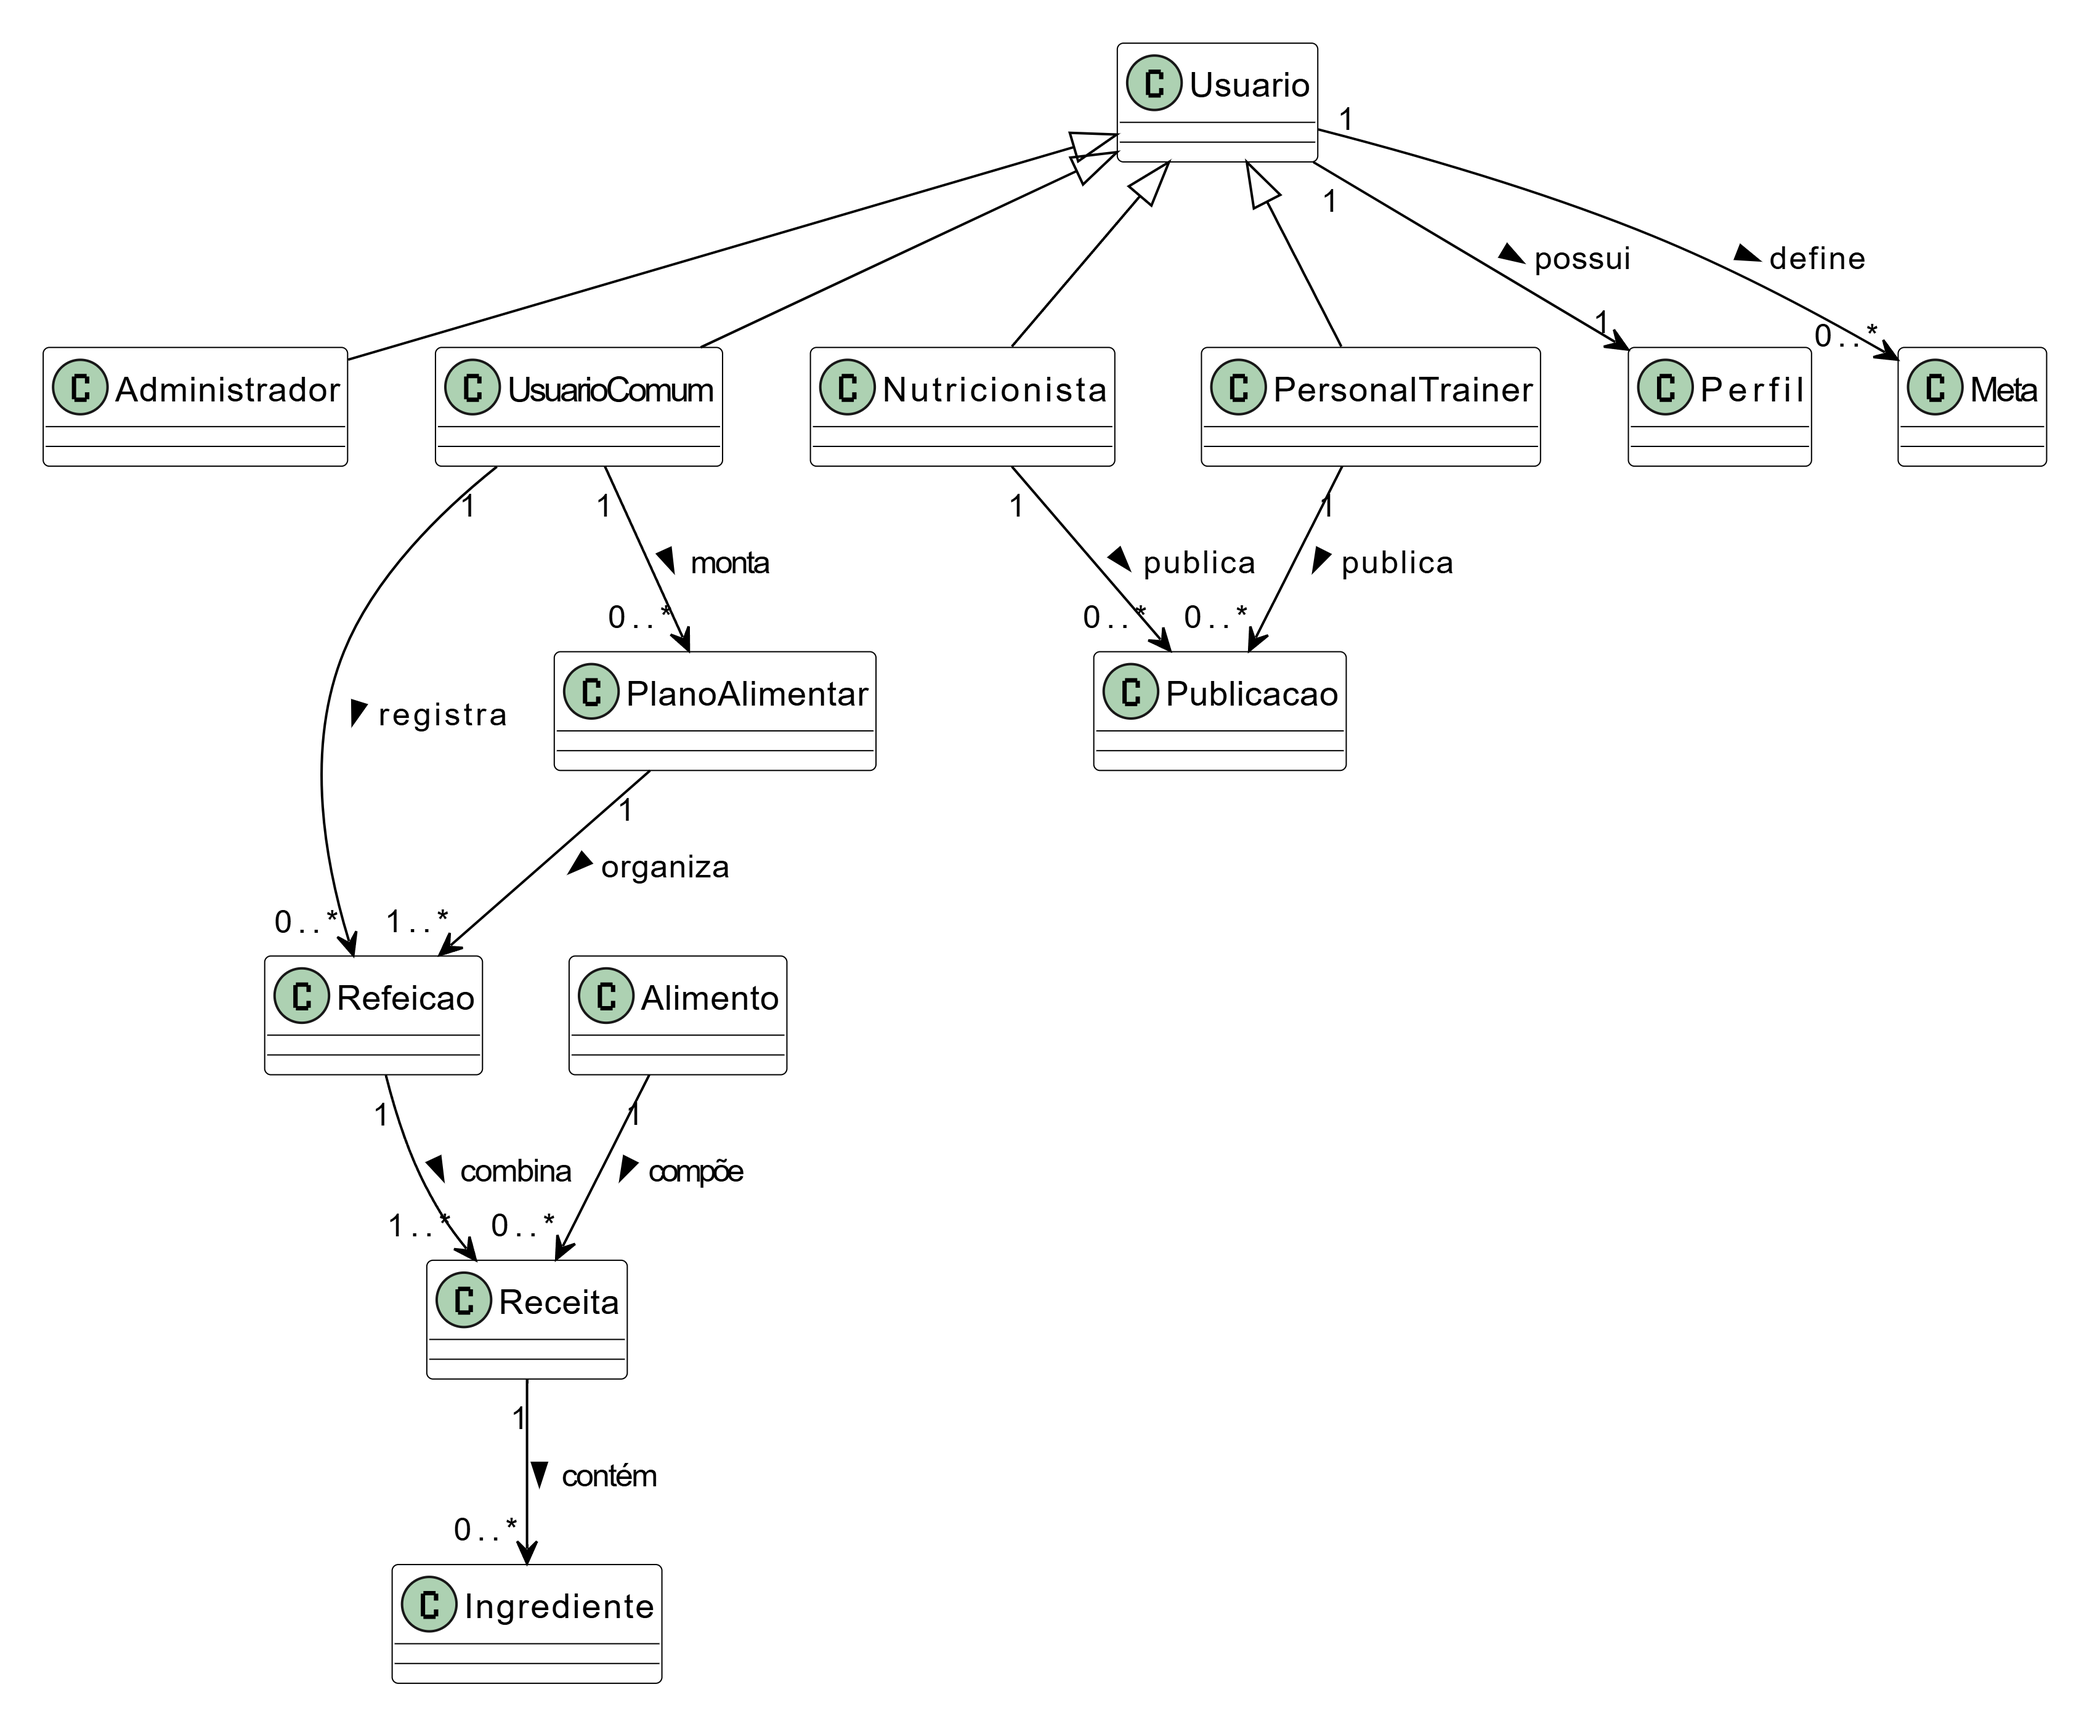
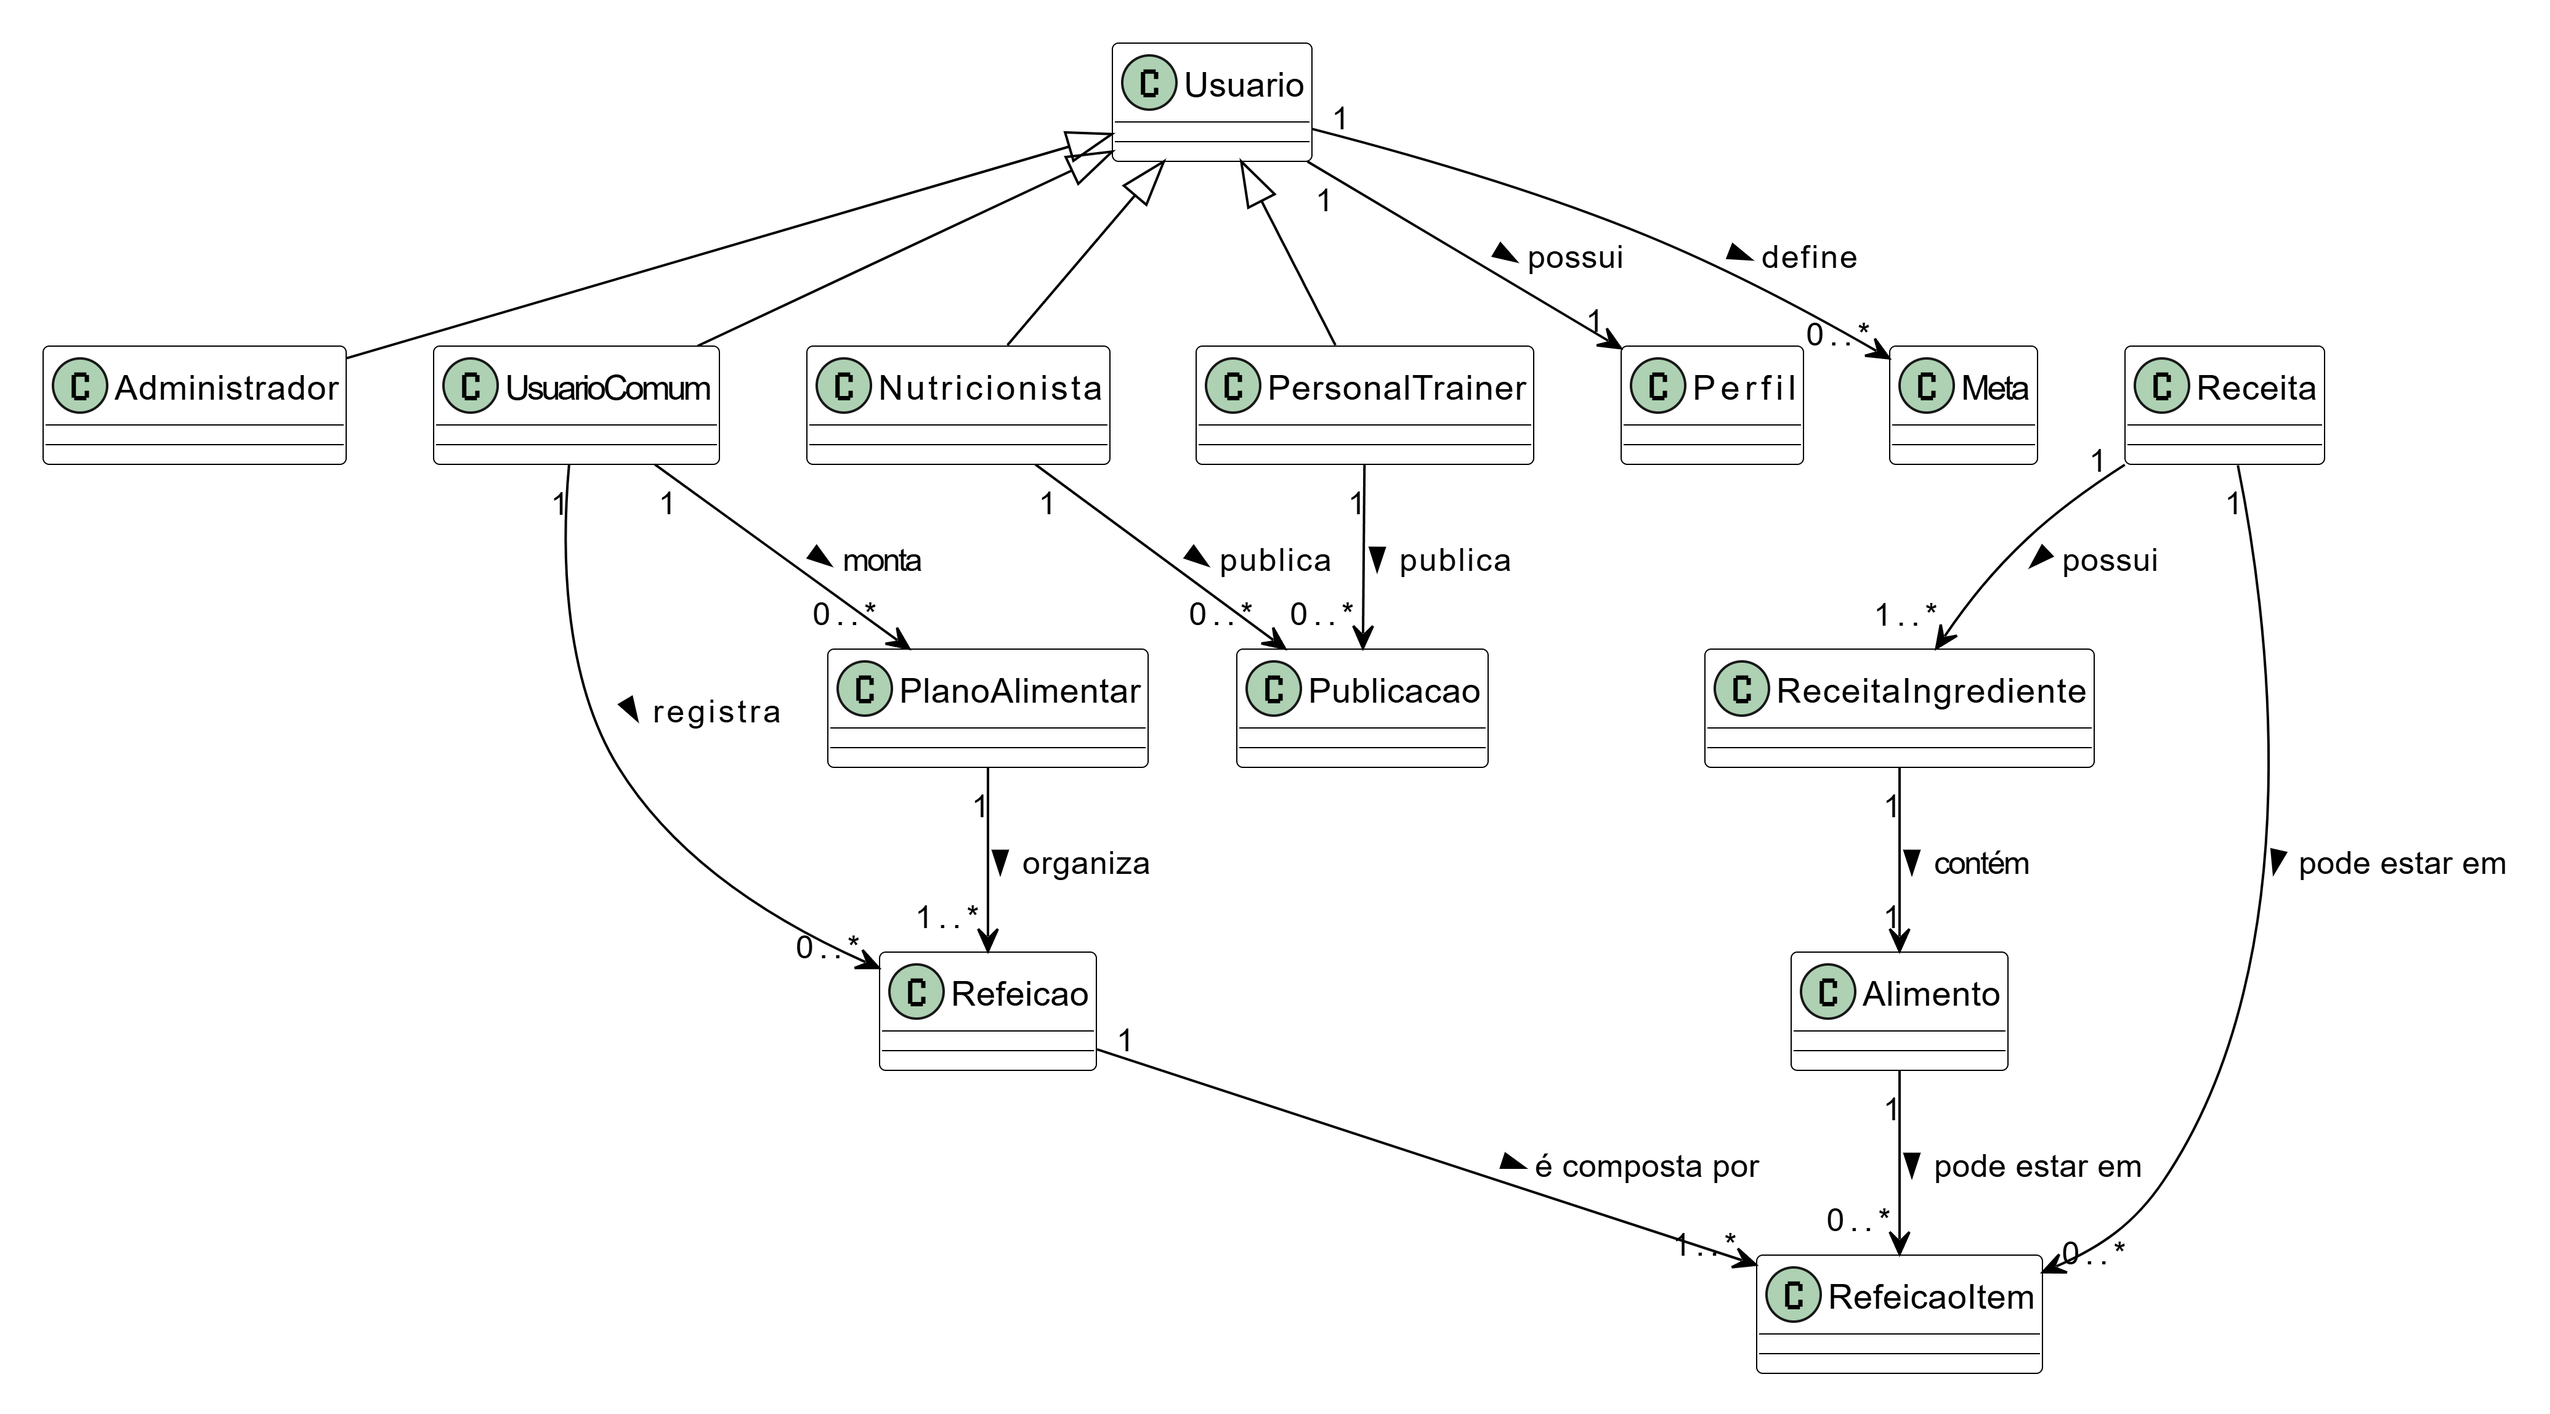
refactor: changes class diagram definition

diff --git a/docs/especificacao.md b/docs/especificacao.md
@@ -390,6 +390,8 @@ d) O Sistema valida e salva as alterações ou remove a meta.
 
 **Pós-condições:** Publicação de personal trainer criada, alterada ou excluída com sucesso.
 
+---
+
 ### 3.4.3 Diagrama de Classes 
 
 A Figura 2 mostra o diagrama de classes do sistema. A Matrícula deve conter a identificação do funcionário responsável pelo registro, bem com os dados do aluno e turmas. Para uma disciplina podemos ter diversas turmas, mas apenas um professor responsável por ela.
@@ -401,6 +403,8 @@ A Figura 2 mostra o diagrama de classes do sistema. A Matrícula deve conter a i
 
 ### 3.4.4 Descrições das Classes 
 
+# class diagram
+
 | # | Nome | Descrição |
 | --- | --- | --- |
 | 1 | **Usuario** | Classe base que representa qualquer usuário do sistema. |
@@ -408,11 +412,12 @@ A Figura 2 mostra o diagrama de classes do sistema. A Matrícula deve conter a i
 | 3 | **UsuarioComum** | Usuário que registra alimentos, receitas, consumo e metas pessoais. |
 | 4 | **Nutricionista** | Profissional que pode publicar conteúdos nutricionais e receitas. |
 | 5 | **PersonalTrainer** | Profissional que pode publicar treinos e orientações físicas. |
-| 6 | **Perfil** | Contém informações pessoais, restrições alimentares e preferências. |
+| 6 | **Perfil** | Contém informações pessoais, restrições alimentares e preferências do usuário. |
 | 7 | **Meta** | Objetivos definidos pelo usuário (peso, glicemia, ingestão de água etc.). |
 | 8 | **Alimento** | Item com dados nutricionais (macro e micronutrientes). |
-| 9 | **Receita** | Conjunto de ingredientes formando um prato. |
-| 10 | **Ingrediente** | Representa um alimento dentro de uma receita, com quantidade. |
-| 11 | **Refeicao** | Agrupamento de alimentos/receitas em horários (ex: café da manhã). |
-| 12 | **PlanoAlimentar** | Conjunto de refeições organizadas em um período (diário/semana). |
-| 13 | **Publicacao** | Conteúdo criado por nutricionista ou personal trainer. |
+| 9 | **Receita** | Conjunto de ingredientes formando um prato ou preparação culinária. |
+| 10 | **ReceitaIngrediente** | Representa a relação entre uma receita e um alimento, permitindo especificar a quantidade de cada ingrediente. |
+| 11 | **Refeicao** | Agrupamento de alimentos e receitas em horários ou momentos do dia (ex.: café da manhã). |
+| 12 | **RefeicaoItem** | Representa um item dentro de uma refeição, que pode ser um alimento ou uma receita, com quantidade associada. |
+| 13 | **PlanoAlimentar** | Conjunto de refeições organizadas em um período específico (diário, semanal). |
+| 14 | **Publicacao** | Conteúdo criado por nutricionista ou personal trainer, como orientações, receitas ou treinos. |
